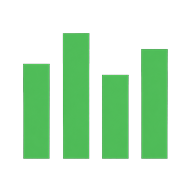
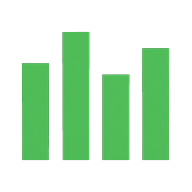
Add files via upload

diff --git a/index.html b/index.html
@@ -5,8 +5,8 @@
     <meta name="viewport" content="width=device-width, initial-scale=1.0, viewport-fit=cover">
     <title>ROQUE - Gestión Inteligente</title>
     <link rel="manifest" href="manifest.json">
-    <link rel="icon" href="icon-192-v4.png">
-    <link rel="apple-touch-icon" href="icon-512-v6.png">
+    <link rel="icon" href="icon-192-v7.png">
+    <link rel="apple-touch-icon" href="icon-512-v7.png">
     <meta name="theme-color" content="#121417">
     <style>
         :root {
@@ -101,14 +101,13 @@
         .brand-icon {
             width: 16px;
             height: 16px;
-            border-radius: 3px;
-            object-fit: cover;
+            object-fit: contain;
             display: block;
         }
 
         header .brand-icon {
-            width: 22.9px;
-            height: 22.9px;
+            width: 26px;
+            height: 26px;
         }
 
         .user-bar {
@@ -370,7 +369,7 @@
         }
 
         #loginScreen .brand { margin-bottom: 30px; font-size: 1.4rem; }
-        #loginScreen .brand-icon { width: 24.2px; height: 24.2px; }
+        #loginScreen .brand-icon { width: 28px; height: 28px; }
 
         #loginScreen input {
             background: #121417;
@@ -433,7 +432,7 @@
 <!-- ---- PANTALLA DE LOGIN ---- -->
 <div id="loginScreen">
     <div class="brand">
-        <img src="icon-192-v4.png" alt="" class="brand-icon">
+        <img src="icon-192-v7.png" alt="" class="brand-icon">
         ROQUE
     </div>
     <input type="email" id="loginEmail" placeholder="Email" autocomplete="username" aria-label="Email">
@@ -476,7 +475,7 @@
     <div class="status-light" title="ROQUE operativo"></div>
     <header>
         <div class="brand">
-            <img src="icon-192-v4.png" alt="" class="brand-icon">
+            <img src="icon-192-v7.png" alt="" class="brand-icon">
             ROQUE
         </div>
         <button class="logout-btn" onclick="cerrarSesion()" aria-label="Cerrar sesión" style="position:absolute; right:16px; top:50%; transform:translateY(-50%); display:flex; align-items:center; justify-content:center; padding:6px;">
